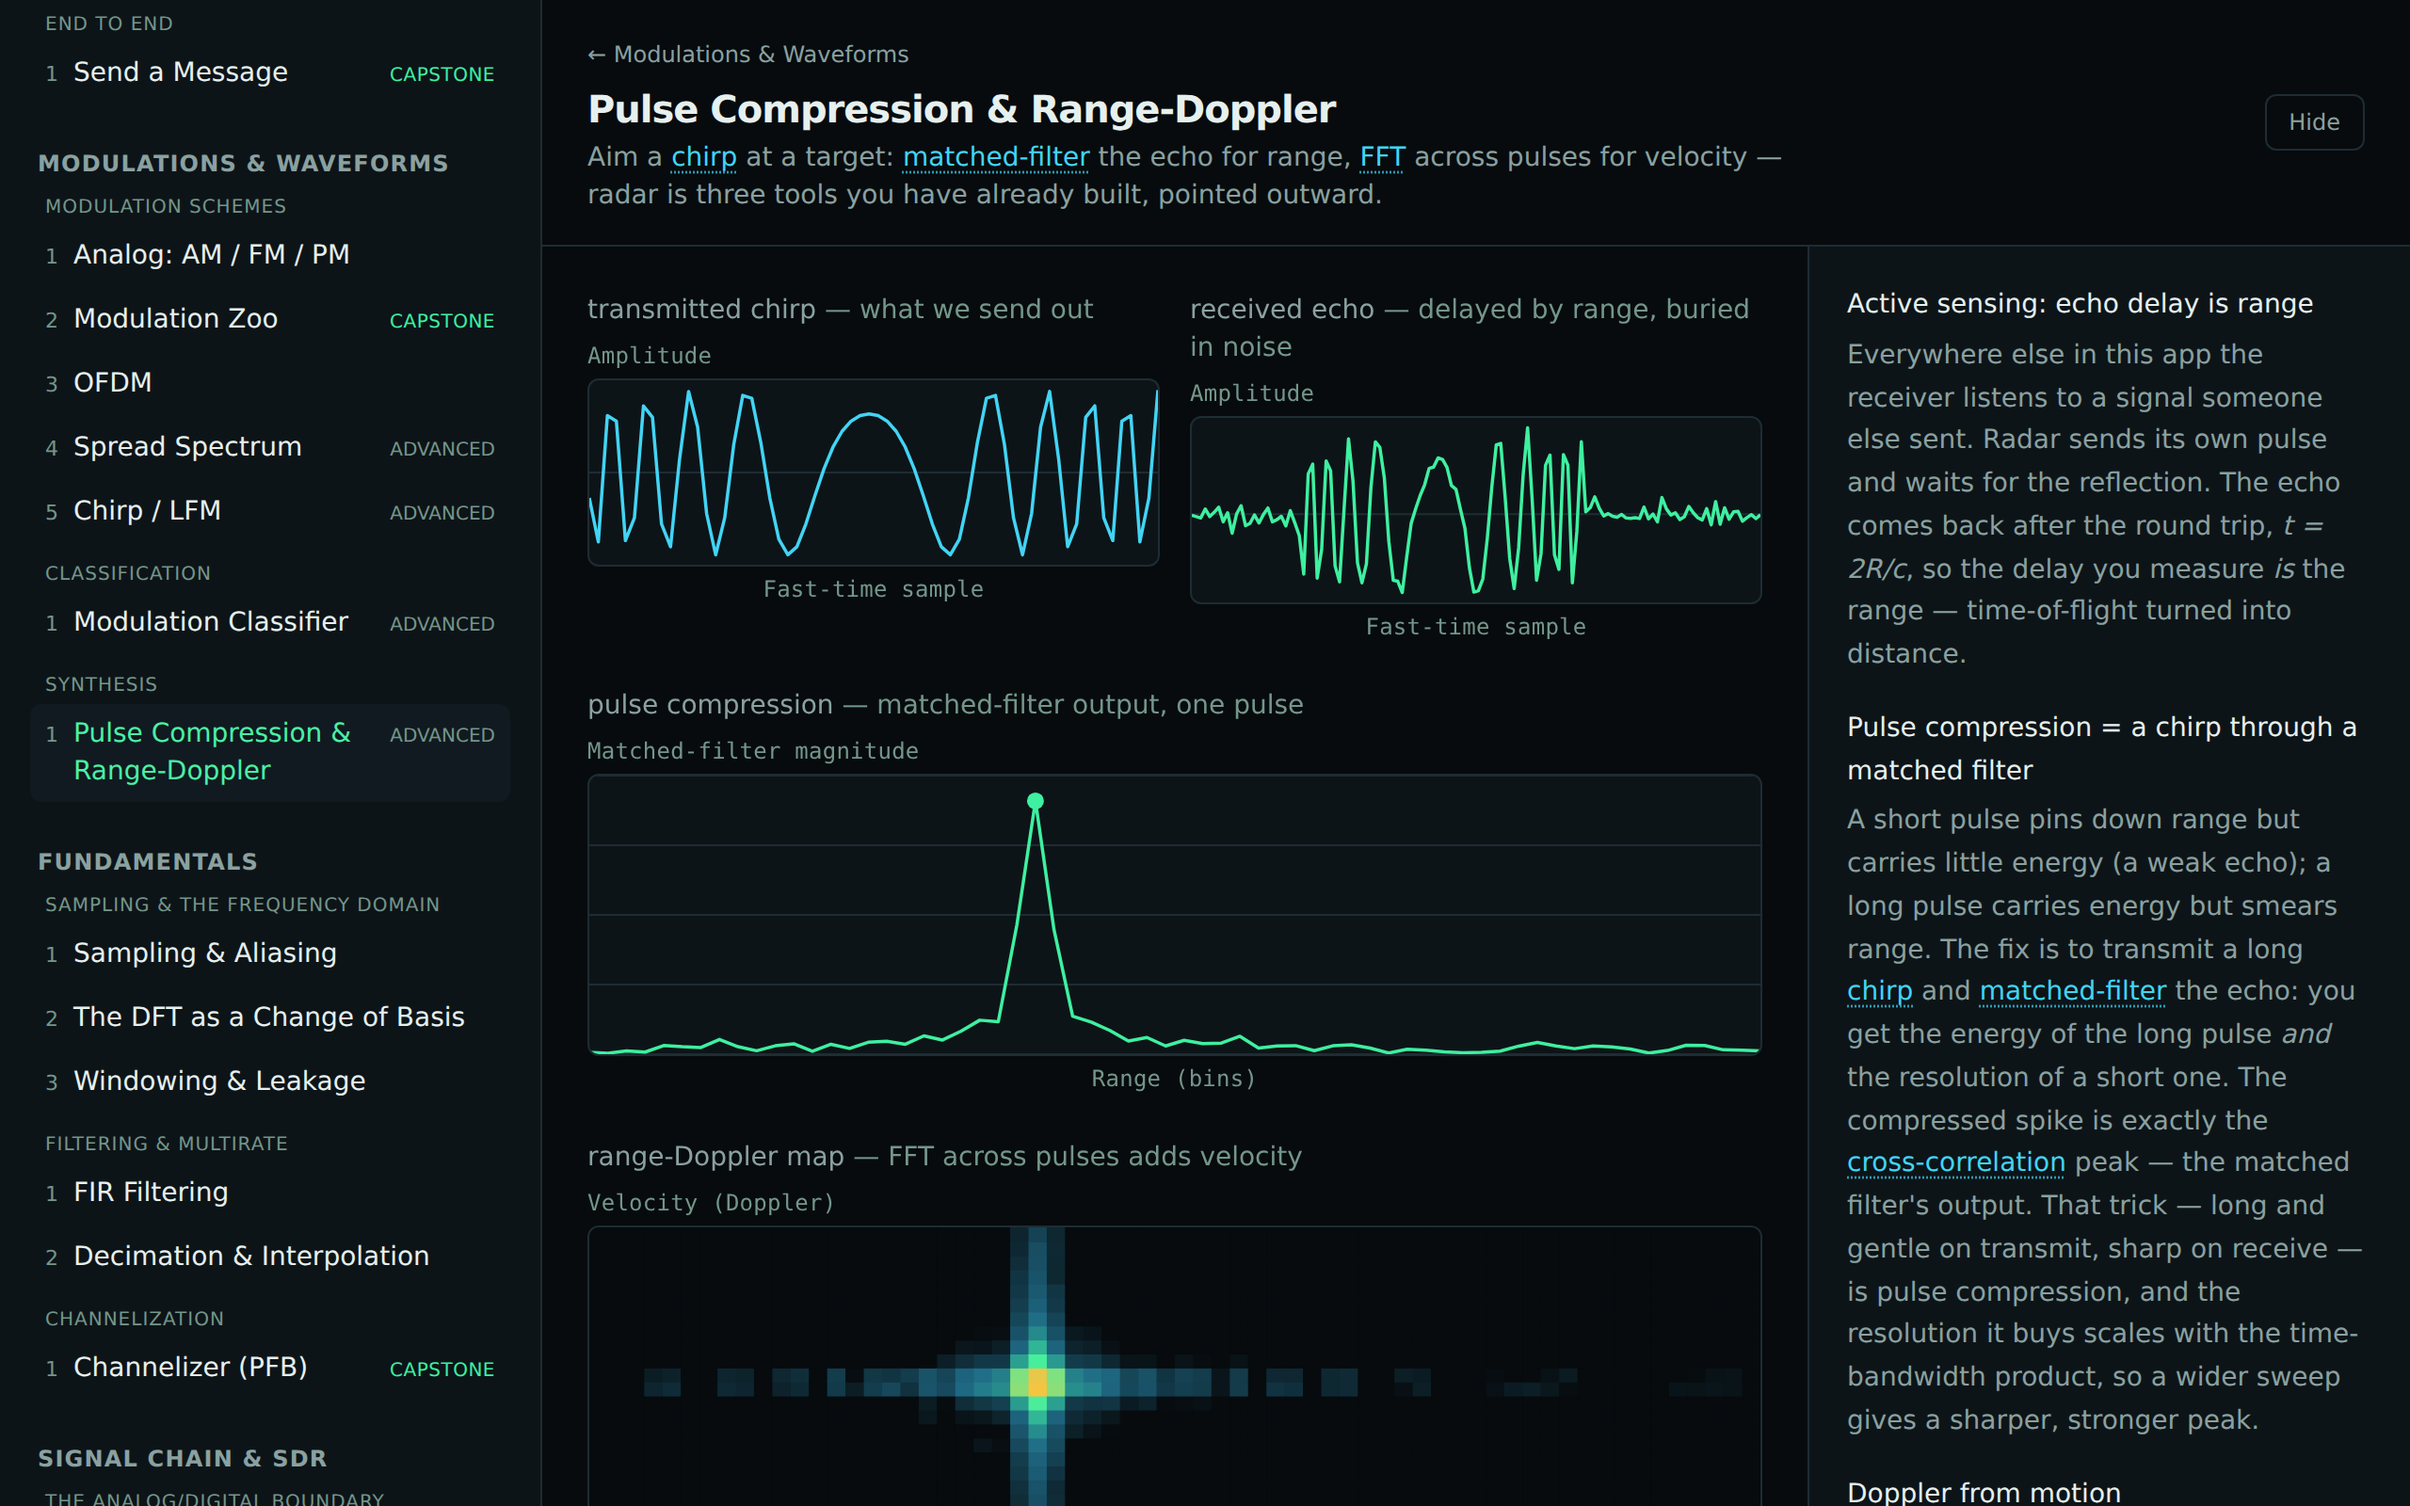
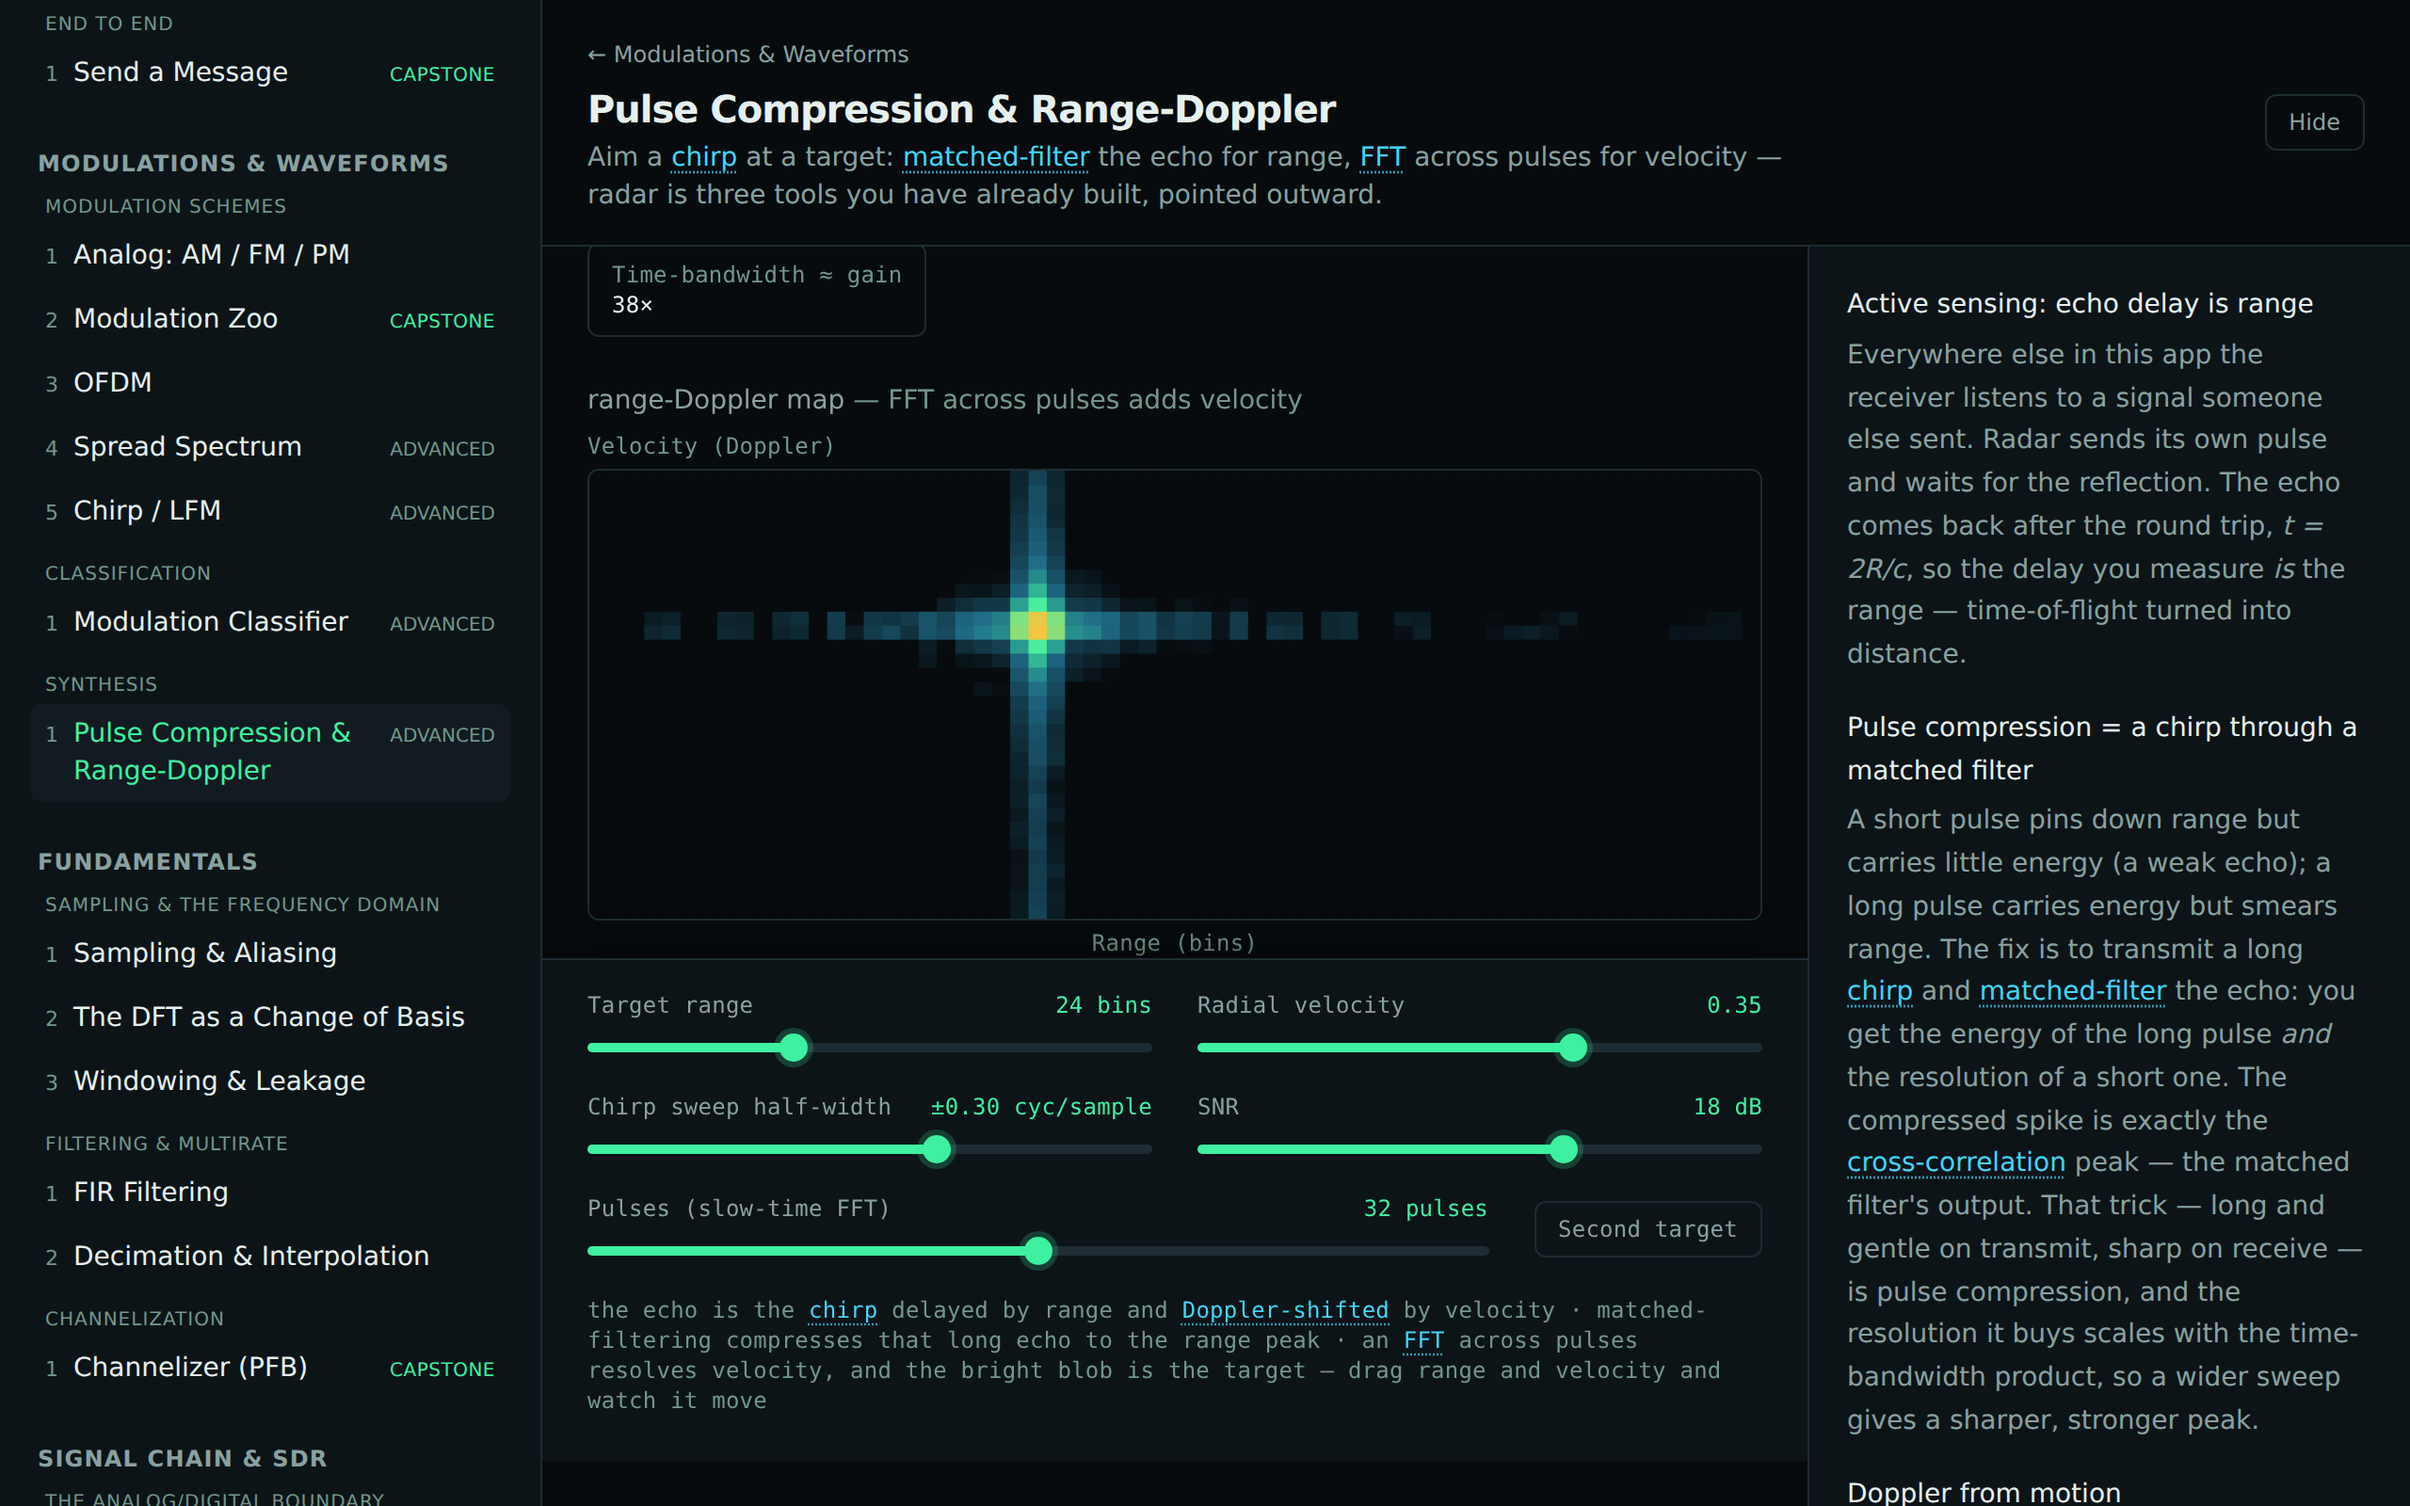
range-doppler: keep the map and range/velocity sliders co-visible
Apply the sticky ControlRail to the radar module and reorder so the marquee
range-Doppler map sits directly above the rail (readouts moved above the map;
the 1-D matched-filter plot trimmed a touch). Dragging range or velocity now
moves the blob without scrolling — the most important pairing on the page.

Layout only — no DSP, readouts, copy, or behavior changes. A Playwright check
asserts the map and its sliders are co-visible and non-overlapping at the
supported width, and the screenshot is regenerated to show the new layout.

Claude-Session: https://claude.ai/code/session_01XPq6QMwuoaWEr7xvfPBHnH

Changed region(s): [[0.25, 0.1562, 0.7188, 1.0], [0.25, 0.4688, 0.375, 0.5312], [0.5938, 0.1875, 0.7188, 0.2188]]

diff --git a/src/modules/modulations-and-waveforms/range-doppler/RangeDopplerModule.tsx b/src/modules/modulations-and-waveforms/range-doppler/RangeDopplerModule.tsx
@@ -1,4 +1,5 @@
 import { useMemo, useState } from 'react';
+import { ControlRail } from '@/components/ControlRail';
 import { GlossedText } from '@/components/GlossedText';
 import { Slider } from '@/components/Slider';
 import { AXIS } from '@/components/plots/axisLabel';
@@ -115,30 +116,14 @@ export function RangeDopplerModule() {
           xDomain={[0, RANGE_BINS - 1]}
           yDomain={[0, profileMax * 1.1]}
           marker={{ x: detected, y: profile[detected], color: colors.signal }}
-          height={150}
+          height={130}
           xLabel={{ quantity: 'Range (bins)' }}
           yLabel={{ quantity: 'Matched-filter magnitude' }}
           ariaLabel="Pulse-compressed range profile, with the peak marking the detected range"
         />
       </div>
 
-      {/* The marquee: stack the compressed pulses and FFT across them → the range-Doppler map. */}
-      <div>
-        <PlotTitle>
-          range-Doppler map{' '}
-          <span className="text-text-faint">— FFT across pulses adds velocity</span>
-        </PlotTitle>
-        <SpectrogramPlot
-          data={mapDb}
-          floorDb={FLOOR_DB}
-          height={240}
-          xLabel={{ quantity: 'Range (bins)' }}
-          yLabel={{ quantity: 'Velocity (Doppler)' }}
-          ariaLabel="Range-Doppler map; a bright blob marks the target's range and velocity, stationary targets sitting on the centre row"
-        />
-      </div>
-
-      {/* Live readouts. */}
+      {/* Live readouts (kept above the map so the marquee sits directly over the sticky controls). */}
       <div className="flex flex-wrap gap-4">
         <Readout label="Target range" value={`${rangeBin} bins`} accent />
         <Readout
@@ -154,86 +139,106 @@ export function RangeDopplerModule() {
         <Readout label="Time-bandwidth ≈ gain" value={`${tbp.toFixed(0)}×`} />
       </div>
 
-      {/* Controls. */}
-      <div className="flex flex-col gap-4 rounded-lg border border-border bg-surface p-4">
-        <div className="flex flex-wrap gap-6">
-          <Slider
-            label="Target range"
-            value={rangeBin}
-            min={4}
-            max={RANGE_BINS - 4}
-            step={1}
-            display={`${rangeBin} bins`}
-            onChange={setRangeBin}
-            ariaLabel="Target range in range bins"
-          />
-          <Slider
-            label="Radial velocity"
-            value={velocity}
-            min={-1}
-            max={1}
-            step={0.05}
-            decimals={2}
-            onChange={setVelocity}
-            ariaLabel="Target radial velocity (sets the Doppler shift)"
-          />
-        </div>
-        <div className="flex flex-wrap gap-6">
-          <Slider
-            label="Chirp sweep half-width"
-            value={bw}
-            min={0.05}
-            max={0.45}
-            step={0.05}
-            display={`±${bw.toFixed(2)} cyc/sample`}
-            onChange={setBw}
-            ariaLabel="Chirp sweep half-width (sets the time-bandwidth product)"
-          />
-          <Slider
-            label="SNR"
-            value={snrDb}
-            min={-5}
-            max={30}
-            step={1}
-            unit=" dB"
-            onChange={setSnrDb}
-            ariaLabel="Echo signal-to-noise ratio in decibels"
-          />
-        </div>
-        <div className="flex flex-wrap items-center gap-6">
-          <Slider
-            label="Pulses (slow-time FFT)"
-            value={pulseIdx}
-            min={0}
-            max={PULSE_OPTIONS.length - 1}
-            step={1}
-            display={`${nPulses} pulses`}
-            onChange={setPulseIdx}
-            ariaLabel="Number of pulses in the coherent train"
-          />
-          <button
-            type="button"
-            aria-pressed={secondTarget}
-            onClick={() => setSecondTarget((s) => !s)}
-            className={[
-              'readout cursor-pointer rounded-md border px-3 py-1.5 text-xs transition-colors',
-              secondTarget
-                ? 'border-signal-dim bg-surface-raised text-signal'
-                : 'border-border bg-surface text-text-muted hover:border-signal-dim hover:text-text',
-            ].join(' ')}
-          >
-            Second target
-          </button>
-        </div>
-        <span className="readout text-xs text-text-faint">
-          <GlossedText>
-            the echo is the chirp delayed by range and Doppler-shifted by velocity ·
-            matched-filtering compresses that long echo to the range peak · an FFT across pulses
-            resolves velocity, and the bright blob is the target — drag range and velocity and watch
-            it move
-          </GlossedText>
-        </span>
+      {/* The marquee, placed directly above the sticky controls so dragging range/velocity moves the
+          blob without scrolling — the compressed pulses stacked and FFT'd across slow-time. */}
+      <div>
+        <PlotTitle>
+          range-Doppler map{' '}
+          <span className="text-text-faint">— FFT across pulses adds velocity</span>
+        </PlotTitle>
+        <SpectrogramPlot
+          data={mapDb}
+          floorDb={FLOOR_DB}
+          height={240}
+          xLabel={{ quantity: 'Range (bins)' }}
+          yLabel={{ quantity: 'Velocity (Doppler)' }}
+          ariaLabel="Range-Doppler map; a bright blob marks the target's range and velocity, stationary targets sitting on the centre row"
+        />
       </div>
+
+      {/* Controls — pinned in a sticky rail so they stay co-visible with the map above while the
+          taller plots scroll (the drag-watch loop the whole app is built on). */}
+      <ControlRail>
+        <div className="flex flex-col gap-4">
+          <div className="flex flex-wrap gap-6">
+            <Slider
+              label="Target range"
+              value={rangeBin}
+              min={4}
+              max={RANGE_BINS - 4}
+              step={1}
+              display={`${rangeBin} bins`}
+              onChange={setRangeBin}
+              ariaLabel="Target range in range bins"
+            />
+            <Slider
+              label="Radial velocity"
+              value={velocity}
+              min={-1}
+              max={1}
+              step={0.05}
+              decimals={2}
+              onChange={setVelocity}
+              ariaLabel="Target radial velocity (sets the Doppler shift)"
+            />
+          </div>
+          <div className="flex flex-wrap gap-6">
+            <Slider
+              label="Chirp sweep half-width"
+              value={bw}
+              min={0.05}
+              max={0.45}
+              step={0.05}
+              display={`±${bw.toFixed(2)} cyc/sample`}
+              onChange={setBw}
+              ariaLabel="Chirp sweep half-width (sets the time-bandwidth product)"
+            />
+            <Slider
+              label="SNR"
+              value={snrDb}
+              min={-5}
+              max={30}
+              step={1}
+              unit=" dB"
+              onChange={setSnrDb}
+              ariaLabel="Echo signal-to-noise ratio in decibels"
+            />
+          </div>
+          <div className="flex flex-wrap items-center gap-6">
+            <Slider
+              label="Pulses (slow-time FFT)"
+              value={pulseIdx}
+              min={0}
+              max={PULSE_OPTIONS.length - 1}
+              step={1}
+              display={`${nPulses} pulses`}
+              onChange={setPulseIdx}
+              ariaLabel="Number of pulses in the coherent train"
+            />
+            <button
+              type="button"
+              aria-pressed={secondTarget}
+              onClick={() => setSecondTarget((s) => !s)}
+              className={[
+                'readout cursor-pointer rounded-md border px-3 py-1.5 text-xs transition-colors',
+                secondTarget
+                  ? 'border-signal-dim bg-surface-raised text-signal'
+                  : 'border-border bg-surface text-text-muted hover:border-signal-dim hover:text-text',
+              ].join(' ')}
+            >
+              Second target
+            </button>
+          </div>
+          <span className="readout text-xs text-text-faint">
+            <GlossedText>
+              the echo is the chirp delayed by range and Doppler-shifted by velocity ·
+              matched-filtering compresses that long echo to the range peak · an FFT across pulses
+              resolves velocity, and the bright blob is the target — drag range and velocity and
+              watch it move
+            </GlossedText>
+          </span>
+        </div>
+      </ControlRail>
     </div>
   );
 }

diff --git a/e2e/screenshots.spec.ts b/e2e/screenshots.spec.ts
@@ -226,7 +226,22 @@ test('modulation classifier module', async ({ page }) => {
 test('pulse compression & range-Doppler module', async ({ page }) => {
   await page.goto('/');
   await page.getByRole('button', { name: 'Pulse Compression & Range-Doppler' }).first().click();
-  await expect(page.getByRole('img', { name: /range-Doppler map/i })).toBeVisible();
+  const map = page.getByRole('img', { name: /range-Doppler map/i });
+  await expect(map).toBeVisible();
+  // The drag-watch loop: scroll the column to the bottom, where the sticky control rail rests just
+  // below the marquee map. The range/velocity sliders and the map must be co-visible AND not
+  // overlap — dragging must move the blob without scrolling. (CONTRIBUTING → "Keep controls
+  // co-visible with their target plot".)
+  await page.getByRole('main').evaluate((el) => el.scrollTo({ top: el.scrollHeight }));
+  const rangeSlider = page.getByRole('slider', { name: /Target range/i });
+  await expect(map).toBeInViewport();
+  await expect(rangeSlider).toBeInViewport();
+  await expect(page.getByRole('slider', { name: /Radial velocity/i })).toBeInViewport();
+  // The map sits fully above the control rail (no occlusion).
+  const mapBox = await map.boundingBox();
+  const sliderBox = await rangeSlider.boundingBox();
+  if (!mapBox || !sliderBox) throw new Error('map or slider not laid out');
+  expect(mapBox.y + mapBox.height).toBeLessThanOrEqual(sliderBox.y + 1);
   await page.screenshot({ path: path.join(IMG_DIR, 'range-doppler.png') });
 });
 
